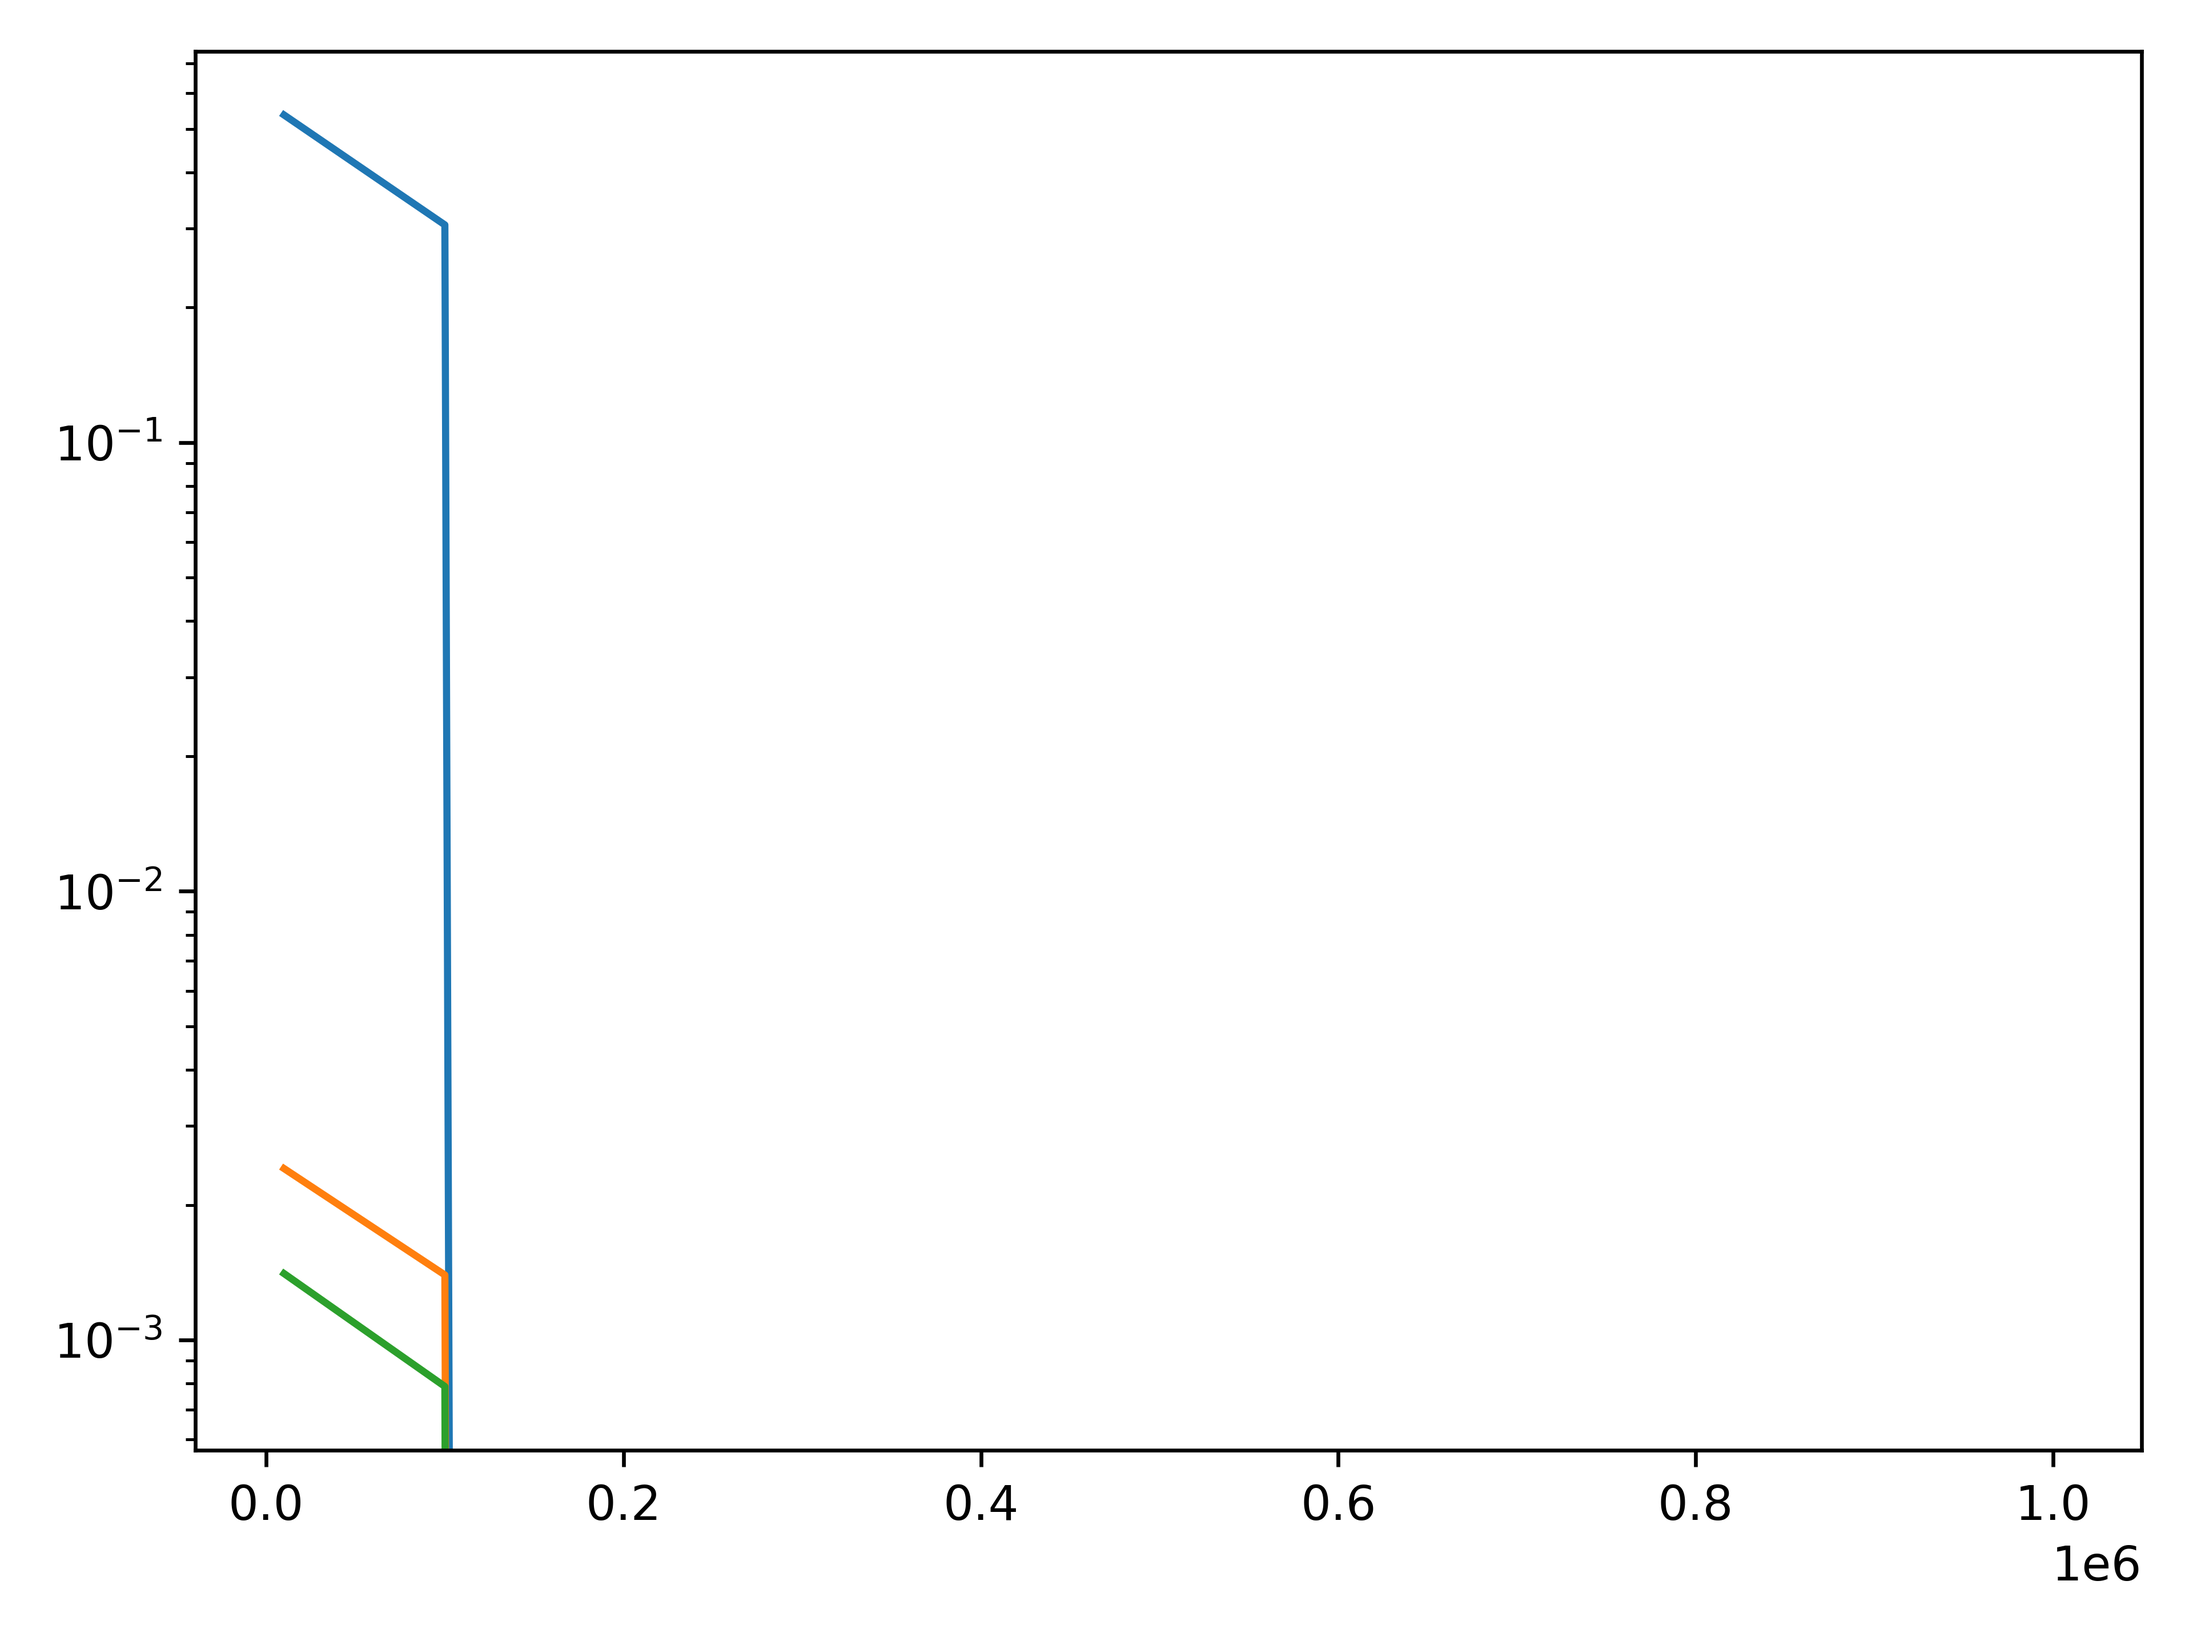
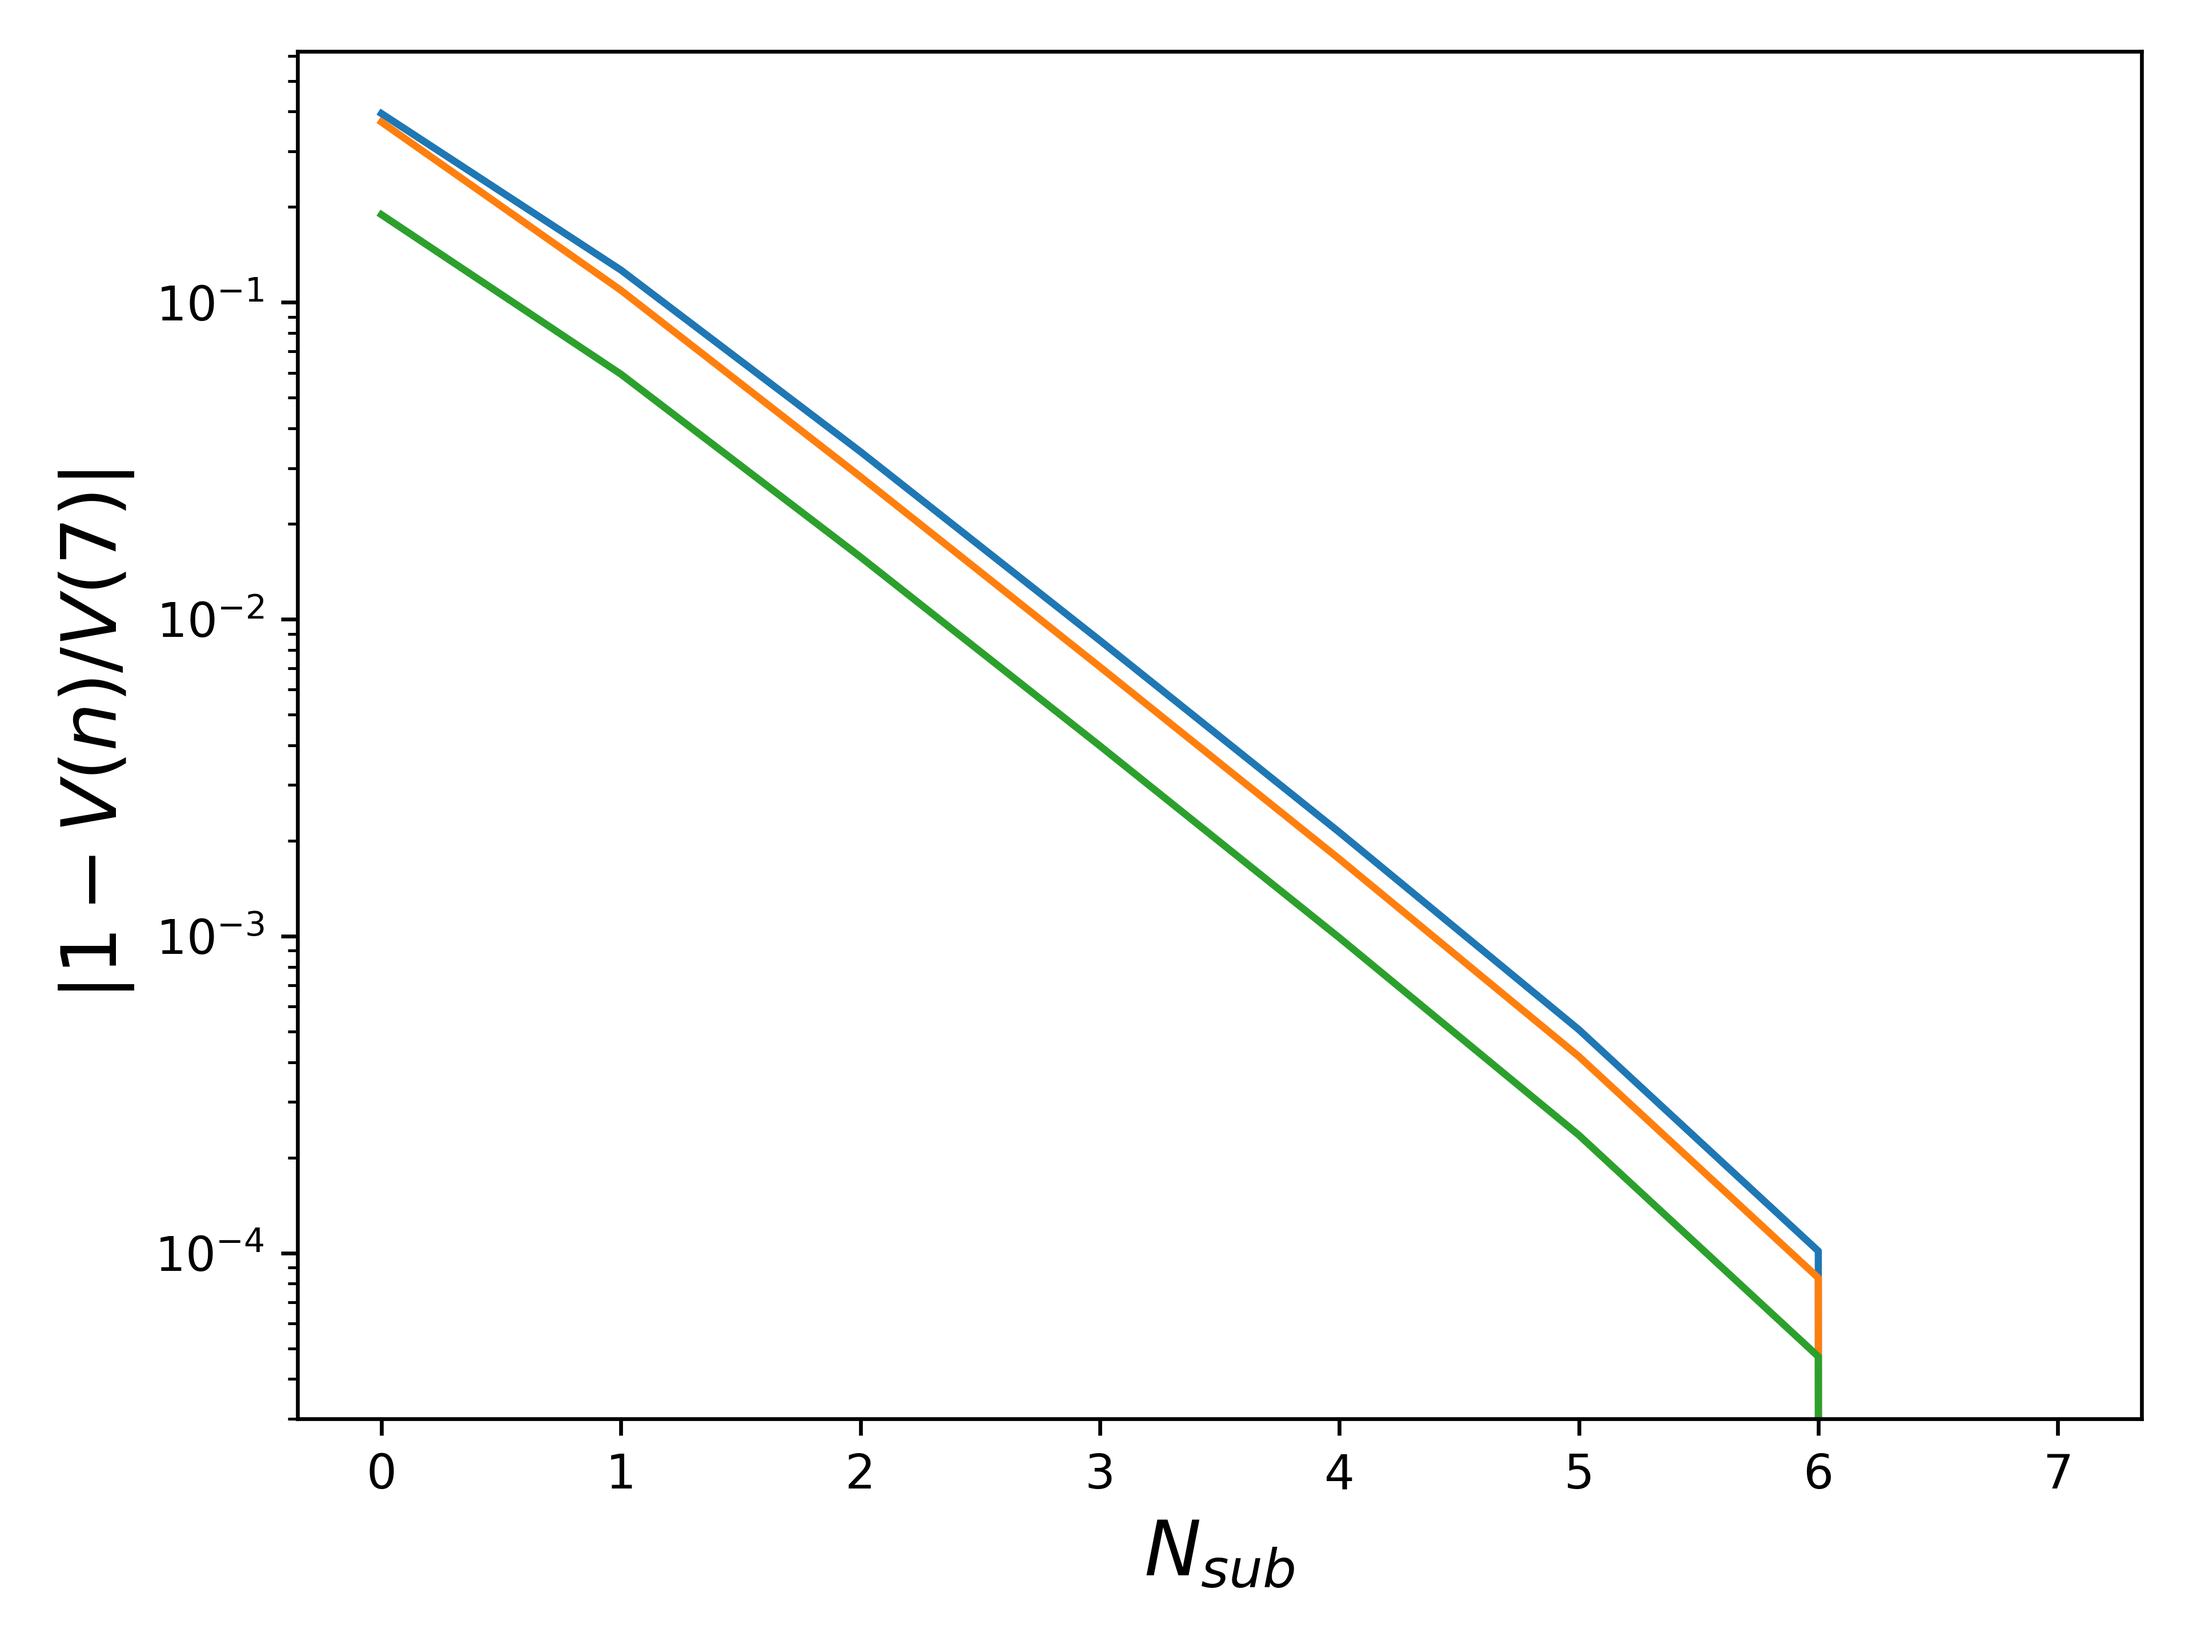
added thomson particle friction calculator

diff --git a/01/grant/thomson-problem/thomson-particle-subdivision-validation.py b/01/grant/thomson-problem/thomson-particle-subdivision-validation.py
@@ -13,7 +13,7 @@ from jaxdem.utils.geometricAsperityCreation import generate_mesh, compute_mesh_p
 def random_points_on_sphere(key, N, S=1):
     """Generate n random points uniformly distributed on the unit sphere."""
     points = jax.random.normal(key, shape=(S, N, 3))
-    norms = jnp.linalg.norm(points, axis=1, keepdims=True)
+    norms = jnp.linalg.norm(points, axis=-1, keepdims=True)
     return (points / norms).squeeze()
 
 def riesz_energy(pos, alpha):
@@ -133,7 +133,7 @@ def compute_clump_properties_from_spheres(
 
 
 N_steps = 1_000
-nv = 50
+nv = 100
 seed = 0
 particle_radius = 0.5
 asperity_rads = [0.01, 0.1, 0.4]
@@ -152,27 +152,29 @@ asperity_pos *= particle_radius
 for asperity_radius in asperity_rads:
     asperity_radii = jnp.ones(asperity_pos.shape[0]) * asperity_radius
 
-    mesh_subdivisions = list(range(6))
+    mesh_subdivisions = list(range(8))
     n_samples_list = [10_000, 100_000, 1_000_000]
     vols = []
     Is = []
-    # for ms in tqdm(mesh_subdivisions):
-    for n_samples in tqdm(n_samples_list):
-        # mesh = generate_mesh(
-        #     asperity_positions=asperity_pos,
-        #     asperity_radii=asperity_radii,
-        #     subdivisions=ms,
-        # )
-        # pos_c, q, inertia_dimensionless, volume = compute_mesh_properties(mesh, mass=1.0)
-        pos_c, q, inertia_dimensionless, volume = compute_clump_properties_from_spheres(asperity_pos, asperity_radii, n_samples)
+    for ms in tqdm(mesh_subdivisions):
+    # for n_samples in tqdm(n_samples_list):
+        mesh = generate_mesh(
+            asperity_positions=asperity_pos,
+            asperity_radii=asperity_radii,
+            subdivisions=ms,
+        )
+        pos_c, q, inertia_dimensionless, volume = compute_mesh_properties(mesh, mass=1.0)
+        # pos_c, q, inertia_dimensionless, volume = compute_clump_properties_from_spheres(asperity_pos, asperity_radii, n_samples)
         vols.append(volume)
         Is.append(inertia_dimensionless)
     vols = np.array(vols)
     Is = np.array(Is)
 
-    # plt.plot(mesh_subdivisions, 1 - vols / vols[-1])
-    plt.plot(n_samples_list, abs(1 - vols / vols[-1]))
+    plt.plot(mesh_subdivisions, 1 - vols / vols[-1])
+    # plt.plot(n_samples_list, abs(1 - vols / vols[-1]))
     print(vols)
 plt.yscale('log')
+plt.xlabel(r'$N_{sub}$', fontsize=16)
+plt.ylabel(r'$|1 - V(n) / V(7)|$', fontsize=16)
 plt.tight_layout()
 plt.savefig('figures/mesh-validation-vols.png', dpi=600)

diff --git a/01/grant/thomson-problem/thomson-particles.py b/01/grant/thomson-problem/thomson-particles.py
@@ -12,7 +12,7 @@ from jaxdem.utils.geometricAsperityCreation import generate_mesh, compute_mesh_p
 def random_points_on_sphere(key, N, S=1):
     """Generate n random points uniformly distributed on the unit sphere."""
     points = jax.random.normal(key, shape=(S, N, 3))
-    norms = jnp.linalg.norm(points, axis=1, keepdims=True)
+    norms = jnp.linalg.norm(points, axis=-1, keepdims=True)
     return (points / norms).squeeze()
 
 def riesz_energy(pos, alpha):
@@ -79,6 +79,22 @@ def cache_thomson_particle_properties(particles, cache_path):
                     p_grp.attrs[field.name] = val
                 else:
                     p_grp.create_dataset(field.name, data=np.asarray(val))
+
+def merge_thomson_particle_caches(source_paths, dest_path):
+    cache_dir = os.path.dirname(dest_path)
+    if cache_dir:
+        os.makedirs(cache_dir, exist_ok=True)
+    with h5py.File(dest_path, 'a') as dest:
+        grp = dest.require_group('particles')
+        for src_path in source_paths:
+            if not os.path.exists(src_path):
+                continue
+            with h5py.File(src_path, 'r') as src:
+                if 'particles' not in src:
+                    continue
+                for key in src['particles']:
+                    new_key = str(len(grp))
+                    src.copy(src['particles'][key], grp, name=new_key)
 
 def get_thomson_particle_properties(
     N,
@@ -216,7 +232,7 @@ for nv in [20, 50, 100]:
                 load_from_cache=True,
                 allow_generation=True,
                 seed=None,
-                mesh_subdivisions=5,
+                mesh_subdivisions=6,
             )
 
 # TODO: validate the mesh subdivisions is high enough for stable calculation of nv=100 (what is the convergence?)

diff --git a/01/grant/thomson-problem/thomson_problem_edge_lengths.py b/01/grant/thomson-problem/thomson_problem_edge_lengths.py
@@ -34,7 +34,7 @@ def hist(val, bins=None, log=False):
 def random_points_on_sphere(key, n):
     """Generate n random points uniformly distributed on the unit sphere."""
     points = jax.random.normal(key, shape=(n, 3))
-    norms = jnp.linalg.norm(points, axis=1, keepdims=True)
+    norms = jnp.linalg.norm(points, axis=-1, keepdims=True)
     return points / norms
 
 def riesz_energy(pos, alpha):
